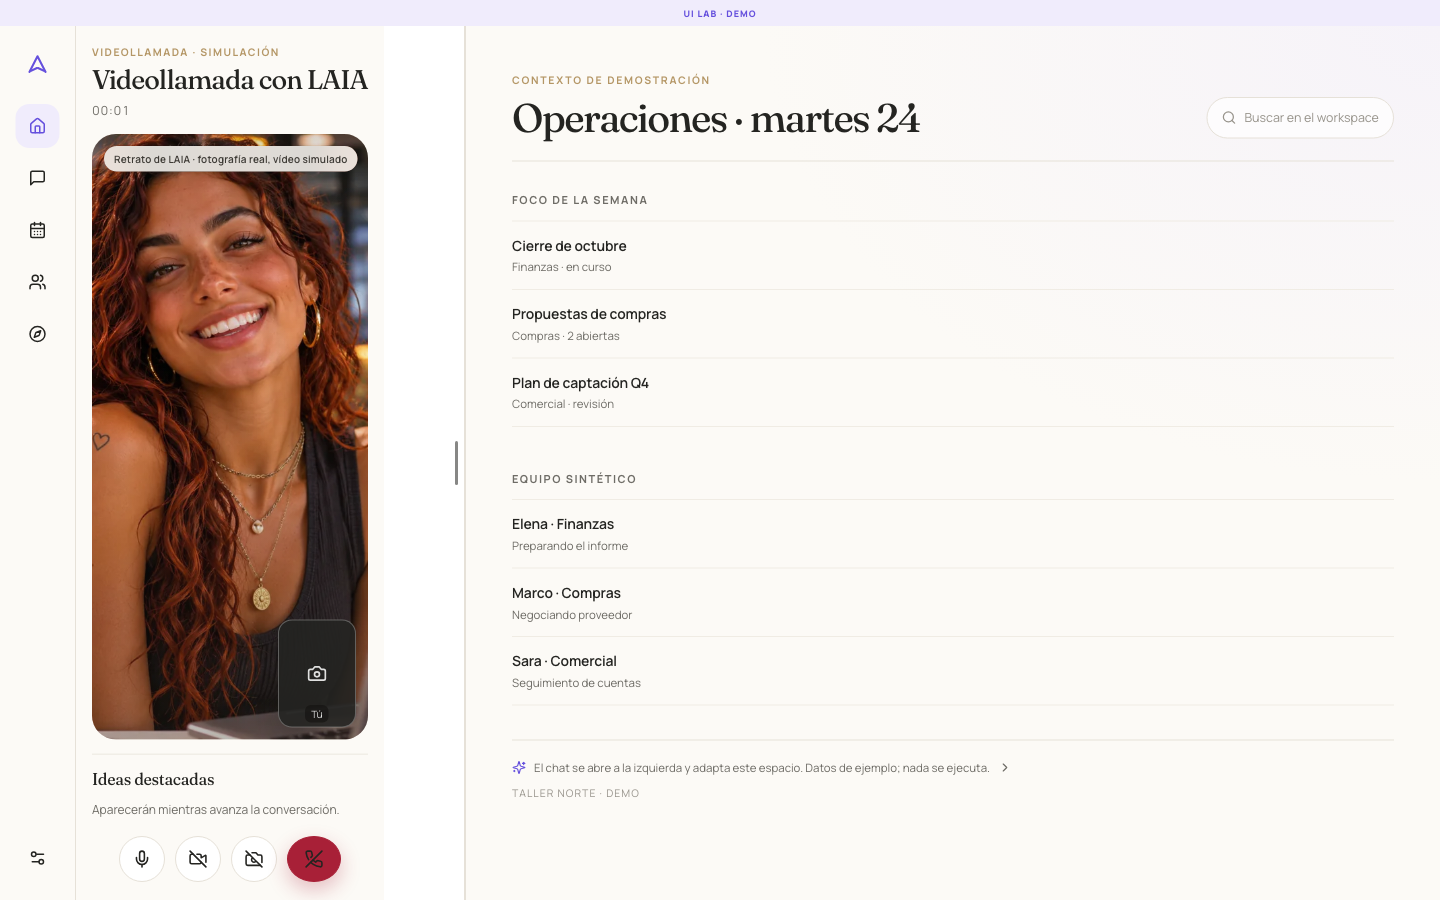
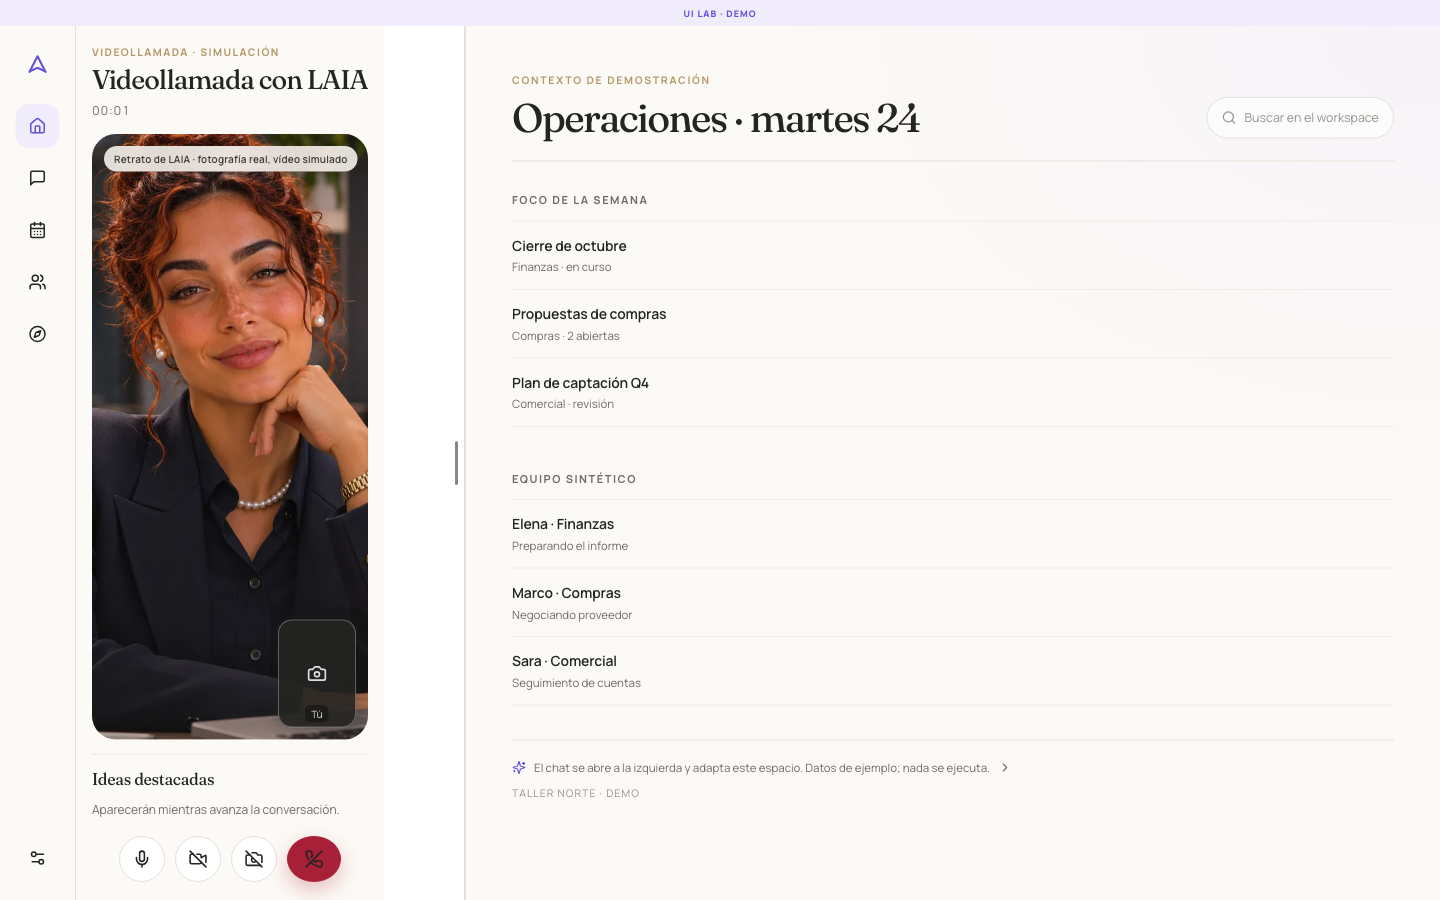
fix(ui-lab): use the founder's LAIA portrait in the video call
El PNG oficial de LAIA llegó a mitad de campaña con nombre numérico y no era la variante de la landing usada como respaldo: se regenera `laia-videollamada.webp` desde el archivo del founder, se conserva el original sin renombrar, se refrescan el clon con hashes, las capturas y el artifact, y se documenta la sustitución.

Generated with Codebuff 🤖

Changed region(s): [[0.0625, 0.1244, 0.2812, 0.84]]

diff --git a/apps/ui-lab/docs/dashboards/04-chat-boton-transversal/campana-transversal-v3/BITACORA.md b/apps/ui-lab/docs/dashboards/04-chat-boton-transversal/campana-transversal-v3/BITACORA.md
@@ -9,17 +9,22 @@
 
 1. **Puerta literal de los gestos**: `widths()`, `visiblePx()`, `minVisible()` y `nearestSnap()` se copian del baseline, no se reescriben. El estado del gesto se escribe en el DOM, nunca con `setState`.
 2. **Adaptador demo** en lugar de dependencias de backend (`uploadFile`, tipos, typewriter): respuestas, ideas y actas sintéticas.
-3. **Fotografía**: se localiza `apps/ui-lab/public/landing/laia.png` (1254 × 1254, `ab3fd712…`), retrato real de LAIA con la marca de la oficina. Se conserva el original en la campaña y se genera `laia-videollamada.webp` 900 × 900. Se documenta la incidencia en vez de inventar una persona.
+3. **Fotografía**: al no haber PNG en `assets/`, se usa provisionalmente `public/landing/laia.png`. A mitad de campaña llega el PNG del founder (`file_00000000bad881f4a18a32b6c6edc2c8.png`, `0aa55fbe…`): misma modelo, **otra fotografía oficial** (traje, cartel «AgntiaPro LAIA»). Se regenera el WebP desde ese archivo (`e5ca0db0…`, 68,2 kB), se conserva el original con su nombre numérico y se elimina la copia provisional. No se inventó ninguna persona.
 4. **Un solo estado de hilo** en la raíz para que texto, voz, vídeo y acta compartan conversación y borrador.
 5. **Encaje con UI Lab**: `.lab-embed:has(.ctv)` y `body:has(.ctv)` para que la insignia de 26 px no saque la hoja del viewport. Mismo patrón que el launcher ya aprobado.
 
 ## Ejecución
 
 - Módulo completo en `apps/ui-lab/src/chat-transversal-v3/` y registro `chat-transversal-v3`.
-- Typecheck 0 y build 0. Build del artifact: `3fb825730787` (el paquete empaqueta ese código; los commits posteriores son solo documentación).
+- Typecheck 0 y build 0. Build del artifact: `eb65167917e8` (el paquete empaqueta ese código; los commits posteriores son solo documentación).
 - QA real: 47 comprobaciones en navegador cloud (escritorio 1440/1366/1280/1024; móvil y tablet 768/390/360/320; gestos, teclado, acciones, llamadas, acta, reduced motion, consola).
 - Corrección tras la primera pasada: el workspace medía 375 px a 390 de viewport y la página scrolleaba 26 px por la insignia del laboratorio; se corrigió con el encaje `:has()` y se repitió la matriz completa.
 - Refinamiento de la escena de voz: anillos más contenidos (escala 1,55), capas y composición centrada para que el texto no se cruce con los anillos.
+
+## Sincronización con el trabajo paralelo
+
+- `785d5d1d`…`7bc2b79d` publican `baseline/wiring/` (App, AppShell, SidebarV2) y `3ae7f612` añade `baseline/DesktopChatDock.tsx`: se rebasa sobre ello, se verifica que el dock es idéntico a `legacy/` y que el cableado coincide con lo implementado (`data-chat`, una columna para rail + chat).
+- `c9364fc4` sube el PNG de LAIA. Se rebasa y se sustituye el retrato provisional por el definitivo.
 
 ## Límites aceptados y declarados
 

diff --git a/apps/ui-lab/docs/dashboards/04-chat-boton-transversal/campana-transversal-v3/02-AUDITORIA-BASELINE.md b/apps/ui-lab/docs/dashboards/04-chat-boton-transversal/campana-transversal-v3/02-AUDITORIA-BASELINE.md
@@ -20,11 +20,11 @@ SHA del ref consultado: `91576dc6098b4b350b6d43b4c82078655052f59f` (`release/lan
 
 ## Huecos encontrados en el material preparado
 
-1. **`baseline/wiring/` no existe.** La carpeta `baseline/` contiene los diez componentes, pero no el cableado. Se suplió leyendo `componentes-reales/` y el CSS del ref.
-2. **`DesktopChatDock.tsx` no estaba en `baseline/`.** Solo en `legacy/`; se verificó que es idéntico al del ref antes de portarlo.
-3. **El CSS del dock de escritorio no estaba copiado.** Se localizó en `apps/web/src/index.css` del ref; de ahí salen `--desktop-chat-width`, `data-chat` y el rail de 84 px.
+1. **`baseline/wiring/` llegó a mitad de campaña.** Al arrancar no existía; lo publicó el chat paralelo (`785d5d1d`…`7bc2b79d`) con `App.tsx`, `AppShell.tsx` y `SidebarV2.tsx`. Se verificó contra el ref: el cableado coincide (`data-chat`, `DesktopChatDock` dentro de `shell__left`, una sola columna para rail y chat).
+2. **`DesktopChatDock.tsx` llegó a `baseline/` en `3ae7f612`.** Es idéntico al de `legacy/` (`diff` sin salida), así que el port no cambió.
+3. **El CSS del dock de escritorio no estaba copiado.** Se localizó en `apps/web/src/index.css` del ref; de ahí salen `--desktop-chat-width` (84 px de rail + ancho del panel), `data-chat` y el rail de 84 px. El laboratorio usa un rail de 76 px porque no replica el sidebar real de producción; la anchura del panel y su snap sí son idénticos.
 4. **Dependencias de backend**: `uploadFile`, `types/api`, `toolsReducer`, `useTypewriter`, `MessageBubble`, `ThinkingSpiral`. Ninguna se importa: la V3 usa un adaptador demo local (`chat-data.ts`) con respuestas, ideas y actas sintéticas.
-5. **No había fotografía de LAIA en `assets/`.** Solo el `README.md` de instrucciones. La fotografía real de LAIA existe en el repositorio en `apps/ui-lab/public/landing/laia.png` (1254 × 1254, `ab3fd712…`), y es la que se usa, documentada en `06-PATCHSET-EJECUTADO.md`. **Incidencia registrada**: no se eligió una imagen genérica ni se generó otra persona.
+5. **La fotografía de LAIA llegó a mitad de campaña.** Al arrancar, `assets/` solo tenía el `README.md`. Mientras se construía el módulo apareció `assets/file_00000000bad881f4a18a32b6c6edc2c8.png` (1254 × 1254, `0aa55fbe…`), el PNG con nombre numérico al que se refería la campaña. Se descartó la copia provisional que se había tomado de `public/landing/laia.png` (misma modelo y formato, pero **otra fotografía**, `ab3fd712…`) y el WebP se regeneró desde el archivo del founder. No se generó ninguna persona ni se alteró el rostro.
 6. **El chat simplificado de `main` no se usó** como referencia funcional: la geometría y los gestos vienen del ref histórico, como pedía la campaña.
 
 ## Comportamiento original que se conserva

diff --git a/apps/ui-lab/docs/dashboards/04-chat-boton-transversal/campana-transversal-v3/08-HANDOFF.md b/apps/ui-lab/docs/dashboards/04-chat-boton-transversal/campana-transversal-v3/08-HANDOFF.md
@@ -7,7 +7,7 @@
 - **Componentes finales con hashes**: [`componentes-finales/`](componentes-finales/README.md).
 - **QA**: [`07-QA.md`](07-QA.md), [`qa/qa-resultados.json`](qa/qa-resultados.json), [`qa/qa-chat-transversal-v3.mjs`](qa/qa-chat-transversal-v3.mjs) y capturas reales en [`qa/capturas/`](qa/capturas).
 - **Artifact Chromebook**: `artifact/build-artifact.py` produce el paquete; el workflow de UI Lab lo publica como `chat-transversal-v3-chromebook`.
-- **Fotografía optimizada**: [`assets/laia-videollamada.webp`](assets/laia-videollamada.webp) (900 × 900, 86,9 kB) y original en [`assets/laia-original-founder.png`](assets/laia-original-founder.png).
+- **Fotografía optimizada**: [`assets/laia-videollamada.webp`](assets/laia-videollamada.webp) (900 × 900, 68,2 kB) y original del founder en `assets/file_00000000bad881f4a18a32b6c6edc2c8.png`.
 
 ## Cómo verlo
 
@@ -27,7 +27,7 @@ Empaqueta `dist/`, el retrato, las capturas, la documentación y un `SHA256SUMS`
 
 1. **Dirección visual**: marfil, tinta, violeta y oro de la landing; Fraunces en momentos editoriales (vacío, llamada, acta); Manrope en la interfaz operativa. Sin tarjetas ni bordes compitiendo.
 2. **Voz**: escena abierta con marca real, anillos y medidor sutiles, rotulada como simulación. Sustituye el rectángulo lavanda anterior.
-3. **Vídeo**: LAIA como protagonista, PiP local, controles discretos y finalizar en rojo. El retrato viene de `public/landing/laia.png` porque `assets/` no tenía PNG: **conviene que confirmes que es la fotografía correcta**.
+3. **Vídeo**: LAIA como protagonista, PiP local, controles discretos y finalizar en rojo. El retrato es tu PNG `assets/file_00000000bad881f4a18a32b6c6edc2c8.png` (`0aa55fbe…`), conservado sin renombrar y optimizado a `laia-videollamada.webp` 900 × 900.
 4. **Menú «+»**: 10 acciones en dos grupos (Capturar / Trabajo), con «Grabar vídeo» separado de «Subir vídeo».
 5. **Workspace de contexto**: maqueta neutra rotulada «Contexto de demostración»; no se rediseñó ningún workspace real.
 

diff --git a/apps/ui-lab/docs/dashboards/04-chat-boton-transversal/campana-transversal-v3/06-PATCHSET-EJECUTADO.md b/apps/ui-lab/docs/dashboards/04-chat-boton-transversal/campana-transversal-v3/06-PATCHSET-EJECUTADO.md
@@ -22,12 +22,12 @@ apps/ui-lab/src/chat-transversal-v3/
 
 | Dato | Valor |
 | --- | --- |
-| Archivo recibido en el repositorio | `apps/ui-lab/public/landing/laia.png` (no había PNG en `assets/` al ejecutar; incidencia documentada en `02-AUDITORIA-BASELINE.md`) |
-| Original conservado en la campaña | `campana-transversal-v3/assets/laia-original-founder.png` |
[1 lines of base64/hex data omitted]
+| Archivo recibido del founder | `campana-transversal-v3/assets/file_00000000bad881f4a18a32b6c6edc2c8.png` (nombre numérico, conservado sin renombrar; llegó en `c9364fc4`) |
[1 lines of base64/hex data omitted]
 | Dimensiones originales | 1254 × 1254, RGB |
-| Versión optimizada | `assets/laia-videollamada.webp`, 900 × 900, 86,9 kB |
[1 lines of base64/hex data omitted]
+| Versión optimizada | `assets/laia-videollamada.webp` y `src/chat-transversal-v3/assets/laia-videollamada.webp`, 900 × 900, 68,2 kB |
[1 lines of base64/hex data omitted]
+| Descartado | Copia provisional de `public/landing/laia.png` (`ab3fd712…`): misma modelo, **otra fotografía**; sustituida por la del founder |
 | Encuadre | `object-fit: cover`, `object-position: center 26 %`; sin deformar el rostro |
 | Uso | Retrato protagonista de la videollamada; etiqueta «fotografía real, vídeo simulado» |
 

diff --git a/apps/ui-lab/docs/dashboards/04-chat-boton-transversal/ESTADO-UX.md b/apps/ui-lab/docs/dashboards/04-chat-boton-transversal/ESTADO-UX.md
@@ -28,7 +28,6 @@ recuperada de `release/landing-legal-20261122` y la viste con el sistema visual 
 
 - Aprobación estética del founder: la responsabilidad de esta campaña es técnica y de ejecución.
 - Verificación con cámara concedida, micrófono y dictado reales (el navegador de QA no los expone).
-- Confirmar que `apps/ui-lab/public/landing/laia.png` es la fotografía oficial de LAIA: en
-  `assets/` no había ningún PNG al ejecutar la campaña.
+- Fotografía oficial: se usa el PNG del founder (`assets/file_00000000bad881f4a18a32b6c6edc2c8.png`), recibido a mitad de campaña y conservado con su nombre original.
 
 **Bitácora y milestones:** [Cuaderno de bitácora UX](../19-general/BITACORA-UX.md).

diff --git a/apps/ui-lab/docs/dashboards/04-chat-boton-transversal/campana-transversal-v3/03-ARQUITECTURA-COMPONENTES.md b/apps/ui-lab/docs/dashboards/04-chat-boton-transversal/campana-transversal-v3/03-ARQUITECTURA-COMPONENTES.md
@@ -15,7 +15,7 @@
 | `ChatCall.tsx` | Voz y vídeo: temporizador, ideas progresivas, cámara local con limpieza de tracks, informe con estado vacío y completo, modo compacto |
 | `chat-data.ts` | Tipos, sugerencias, respuestas sintéticas, ideas, siguiente paso, acciones, `formatDuration`, `uid`, retrato importado |
 | `chat-v3.css` | Capa visual completa bajo `.ctv`, diálogos incluidos, responsive, reduced motion, encaje con la insignia de UI Lab |
-| `assets/laia-videollamada.webp` | Retrato optimizado 900 × 900 (86,9 kB) |
+| `assets/laia-videollamada.webp` | Retrato optimizado 900 × 900 (68,2 kB) desde el PNG del founder |
 
 ## Estado
 

diff --git a/apps/ui-lab/docs/dashboards/04-chat-boton-transversal/campana-transversal-v3/07-QA.md b/apps/ui-lab/docs/dashboards/04-chat-boton-transversal/campana-transversal-v3/07-QA.md
@@ -1,6 +1,6 @@
 # 07 · QA
 
-Build `3fb825730787` (UI Lab) · rama `main` · 2026-11-24 · navegador cloud (Chromium gestionado) · typecheck 0 · build 0.
+Build `eb65167917e8` (UI Lab) · rama `main` · 2026-11-24 · navegador cloud (Chromium gestionado) · typecheck 0 · build 0.
 
 Evidencia estructurada: [`qa/qa-resultados.json`](qa/qa-resultados.json) (45 comprobaciones: 40 superadas, 1 aviso, 4 no ejecutadas). Capturas reales en [`qa/capturas/`](qa/capturas).
 
